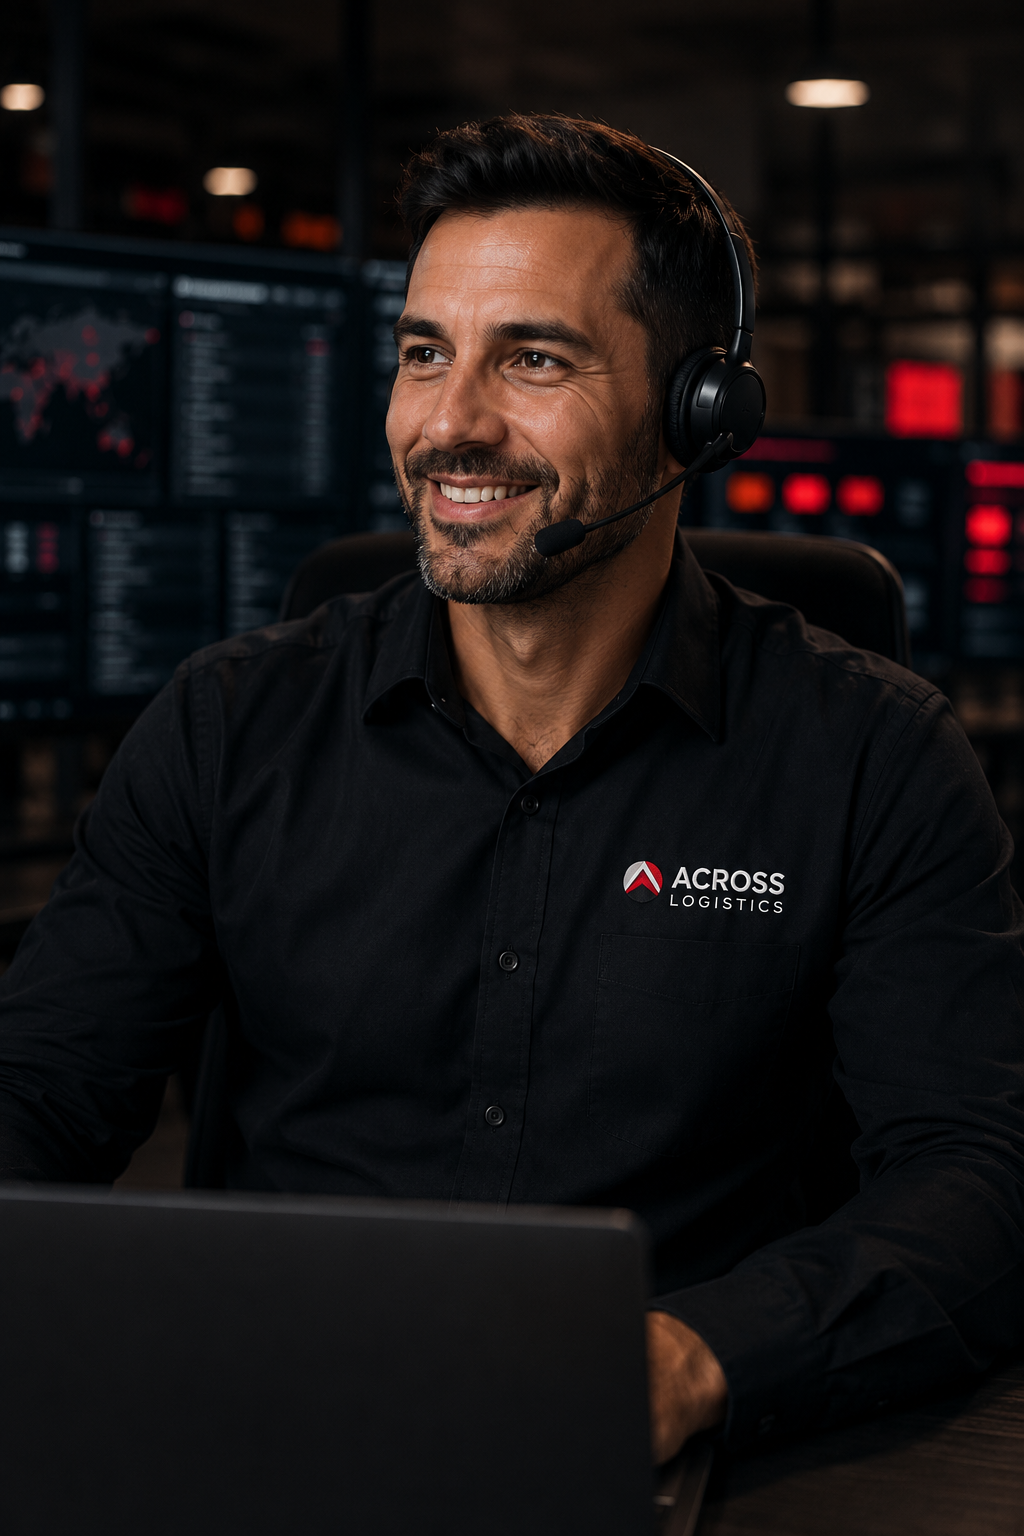
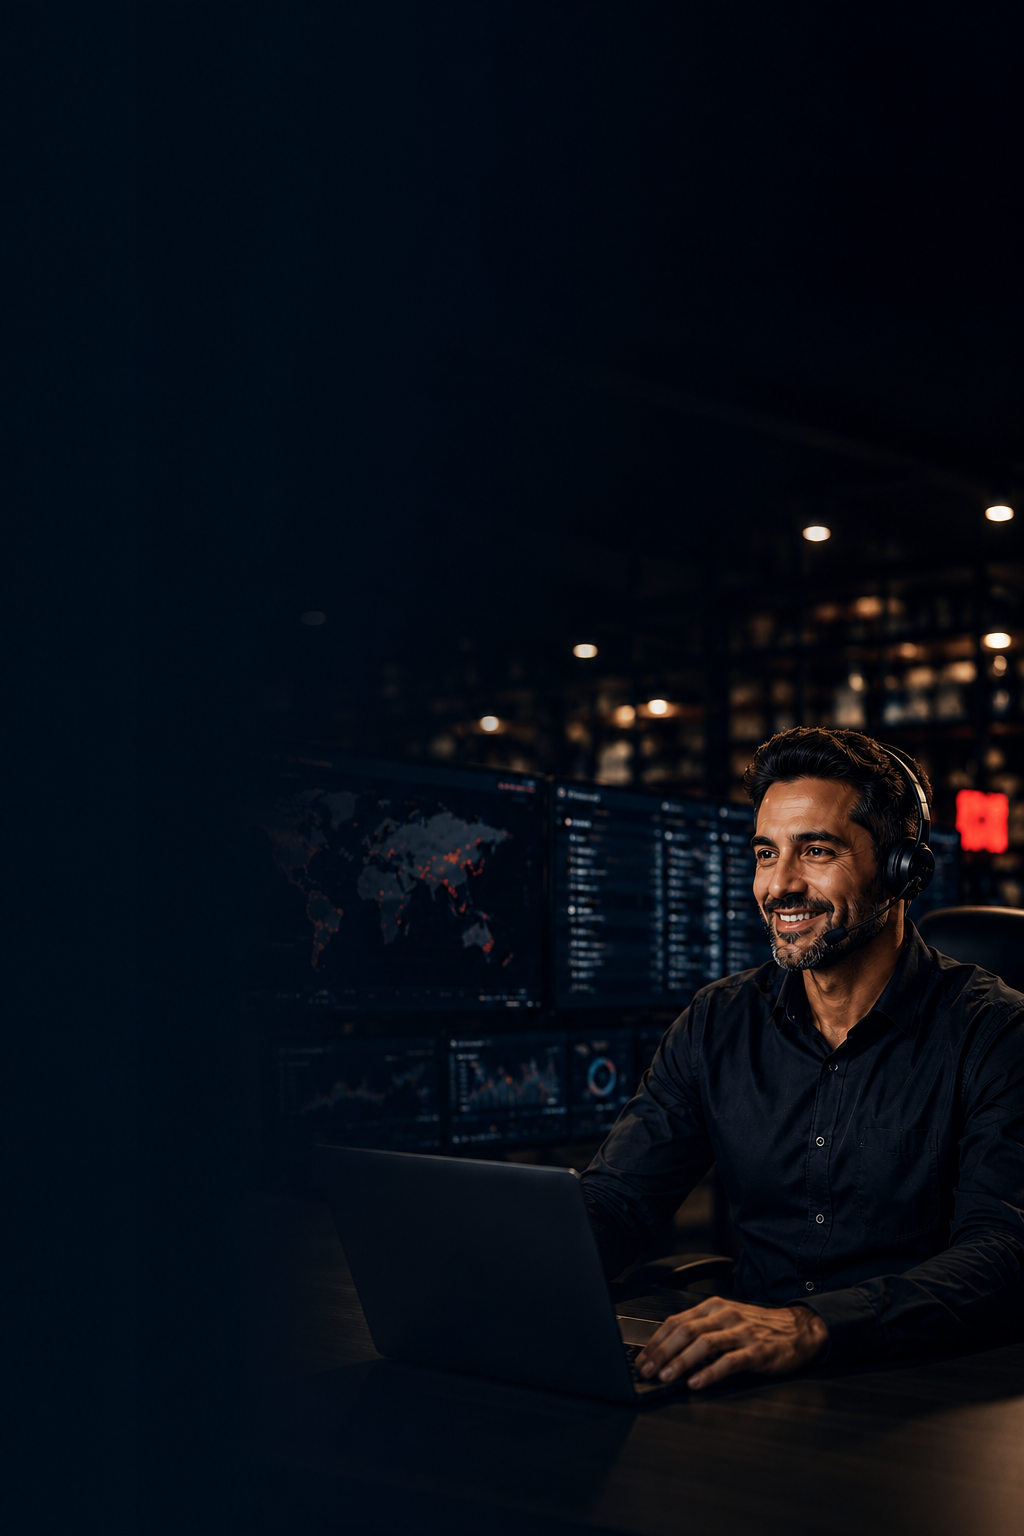
sd

diff --git a/src/app/recursos/Recursos.module.css b/src/app/recursos/Recursos.module.css
@@ -3278,251 +3278,6 @@
 
 /* END RECURSOS CTA PREMIUM ATMOSPHERE FINAL */
 
-/* RECURSOS CTA MOBILE FULL BACKGROUND
-   En mobile la foto cubre todo el bloque azul.
-   No queda chiquita abajo.
-*/
-
-@media (max-width: 760px) {
-  .resourceFinalCta {
-    min-height: 430px !important;
-
-    background-color: #07111d !important;
-    background-image:
-      linear-gradient(
-        180deg,
-        rgba(7, 17, 29, .96) 0%,
-        rgba(7, 17, 29, .90) 38%,
-        rgba(7, 17, 29, .74) 68%,
-        rgba(7, 17, 29, .58) 100%
-      ),
-      linear-gradient(
-        90deg,
-        rgba(7, 17, 29, .94) 0%,
-        rgba(7, 17, 29, .78) 48%,
-        rgba(7, 17, 29, .42) 100%
-      ),
-      url("/images/operador/contactcenter-mobile.png") !important;
-
-    background-position:
-      center center,
-      center center,
-      center center !important;
-
-    background-size:
-      100% 100%,
-      100% 100%,
-      cover !important;
-
-    background-repeat:
-      no-repeat,
-      no-repeat,
-      no-repeat !important;
-  }
-
-  .resourceFinalCtaInner {
-    min-height: 430px !important;
-    padding: 2.25rem 0 2.15rem !important;
-  }
-}
-
-@media (max-width: 430px) {
-  .resourceFinalCta {
-    min-height: 420px !important;
-    background-position:
-      center center,
-      center center,
-      center center !important;
-    background-size:
-      100% 100%,
-      100% 100%,
-      cover !important;
-  }
-
-  .resourceFinalCtaInner {
-    min-height: 420px !important;
-  }
-}
-
-/* END RECURSOS CTA MOBILE FULL BACKGROUND */
-
-/* RECURSOS MOBILE CTA FORCE IMAGE ABOVE FINAL
-   Solución final mobile:
-   - la foto va en ::before
-   - overlay mucho más liviano
-   - texto encima
-   - bloque completo con imagen visible
-*/
-
-@media (max-width: 760px) {
-  .resourceFinalCta {
-    position: relative !important;
-    overflow: hidden !important;
-    isolation: isolate !important;
-    min-height: 420px !important;
-    background: #07111d !important;
-  }
-
-  .resourceFinalCta::before {
-    content: "" !important;
-    display: block !important;
-    position: absolute !important;
-    inset: 0 !important;
-    z-index: 1 !important;
-    width: 100% !important;
-    height: 100% !important;
-    pointer-events: none !important;
-
-    background-image: url("/images/operador/contactcenter-mobile.png") !important;
-    background-repeat: no-repeat !important;
-    background-position: center center !important;
-    background-size: cover !important;
-
-    opacity: 1 !important;
-    filter: brightness(.92) contrast(1.05) saturate(1.05) !important;
-  }
-
-  .resourceFinalCta::after {
-    content: "" !important;
-    display: block !important;
-    position: absolute !important;
-    inset: 0 !important;
-    z-index: 2 !important;
-    pointer-events: none !important;
-
-    background:
-      linear-gradient(
-        90deg,
-        rgba(7, 17, 29, .92) 0%,
-        rgba(7, 17, 29, .78) 48%,
-        rgba(7, 17, 29, .42) 100%
-      ),
-      linear-gradient(
-        180deg,
-        rgba(7, 17, 29, .88) 0%,
-        rgba(7, 17, 29, .62) 52%,
-        rgba(7, 17, 29, .34) 100%
-      ) !important;
-  }
-
-  .resourceFinalCtaInner,
-  .resourceFinalCtaCopy {
-    position: relative !important;
-    z-index: 3 !important;
-  }
-}
-
-@media (max-width: 430px) {
-  .resourceFinalCta {
-    min-height: 410px !important;
-  }
-
-  .resourceFinalCta::before {
-    background-position: center center !important;
-    background-size: cover !important;
-  }
-}
-
-/* END RECURSOS MOBILE CTA FORCE IMAGE ABOVE FINAL */
-
-/* FIX CTA MOBILE IMAGE BEFORE SPECIFICITY
-   Causa real:
-   .page section:not(:first-child)::before pisa el ::before del CTA.
-   Este bloque gana por especificidad y vuelve a poner la imagen.
-*/
-
-/* el CTA no debe usar el divisor global */
-.page .resourceFinalCta::before {
-  content: "" !important;
-  position: absolute !important;
-  inset: 0 !important;
-  left: 0 !important;
-  top: 0 !important;
-  width: 100% !important;
-  height: 100% !important;
-  transform: none !important;
-  z-index: 0 !important;
-  pointer-events: none !important;
-
-  background-image: url("/images/operador/contactcenter-mobile.png") !important;
-  background-repeat: no-repeat !important;
-  background-position: right center !important;
-  background-size: auto 118% !important;
-
-  opacity: .88 !important;
-  filter: brightness(.82) contrast(1.05) saturate(1.05) !important;
-}
-
-.page .resourceFinalCta::after {
-  content: "" !important;
-  position: absolute !important;
-  inset: 0 !important;
-  z-index: 1 !important;
-  pointer-events: none !important;
-  background:
-    linear-gradient(
-      90deg,
-      #07111d 0%,
-      rgba(7,17,29,.96) 36%,
-      rgba(7,17,29,.78) 58%,
-      rgba(7,17,29,.34) 100%
-    ) !important;
-}
-
-.page .resourceFinalCtaInner,
-.page .resourceFinalCtaCopy {
-  position: relative !important;
-  z-index: 2 !important;
-}
-
-@media (max-width: 760px) {
-  .page .resourceFinalCta {
-    position: relative !important;
-    overflow: hidden !important;
-    isolation: isolate !important;
-    min-height: 420px !important;
-    background: #07111d !important;
-  }
-
-  .page .resourceFinalCta::before {
-    background-image: url("/images/operador/contactcenter-mobile.png") !important;
-    background-position: center center !important;
-    background-size: cover !important;
-    opacity: .78 !important;
-  }
-
-  .page .resourceFinalCta::after {
-    background:
-      linear-gradient(
-        180deg,
-        rgba(7,17,29,.94) 0%,
-        rgba(7,17,29,.84) 42%,
-        rgba(7,17,29,.56) 72%,
-        rgba(7,17,29,.34) 100%
-      ),
-      linear-gradient(
-        90deg,
-        rgba(7,17,29,.90) 0%,
-        rgba(7,17,29,.70) 56%,
-        rgba(7,17,29,.34) 100%
-      ) !important;
-  }
-
-  .page .resourceFinalCtaInner {
-    min-height: 420px !important;
-  }
-}
-
-@media (max-width: 430px) {
-  .page .resourceFinalCta::before {
-    background-position: center center !important;
-    background-size: cover !important;
-    opacity: .84 !important;
-  }
-}
-
-/* END FIX CTA MOBILE IMAGE BEFORE SPECIFICITY */
-
 /* RECURSOS CTA REAL PICTURE FINAL
    Imagen real en DOM.
    No usa background ni ::before para la foto.
@@ -3641,3 +3396,61 @@
 }
 
 /* END RECURSOS CTA REAL PICTURE FINAL */
+
+/* RECURSOS CTA FINAL OVERLAY REAL FIX
+   La imagen ya está como <picture>.
+   El problema era .page .resourceFinalCta::after demasiado oscuro.
+   Este bloque lo deja visible sin perder lectura.
+*/
+
+/* desktop */
+.page .resourceFinalCta::after,
+.resourceFinalCta::after {
+  content: "" !important;
+  position: absolute !important;
+  inset: 0 !important;
+  z-index: 1 !important;
+  pointer-events: none !important;
+  background:
+    linear-gradient(
+      90deg,
+      rgba(7,17,29,.90) 0%,
+      rgba(7,17,29,.72) 34%,
+      rgba(7,17,29,.42) 60%,
+      rgba(7,17,29,.10) 100%
+    ) !important;
+}
+
+.resourceFinalCtaBg img {
+  opacity: 1 !important;
+  filter: brightness(1.12) contrast(1.04) saturate(1.08) !important;
+}
+
+/* mobile / tablet real */
+@media (max-width: 900px) {
+  .page .resourceFinalCta::after,
+  .resourceFinalCta::after {
+    background:
+      linear-gradient(
+        180deg,
+        rgba(7,17,29,.72) 0%,
+        rgba(7,17,29,.54) 38%,
+        rgba(7,17,29,.30) 70%,
+        rgba(7,17,29,.12) 100%
+      ),
+      linear-gradient(
+        90deg,
+        rgba(7,17,29,.70) 0%,
+        rgba(7,17,29,.42) 54%,
+        rgba(7,17,29,.08) 100%
+      ) !important;
+  }
+
+  .resourceFinalCtaBg img {
+    opacity: 1 !important;
+    filter: brightness(1.28) contrast(1.04) saturate(1.1) !important;
+    object-position: center center !important;
+  }
+}
+
+/* END RECURSOS CTA FINAL OVERLAY REAL FIX */
